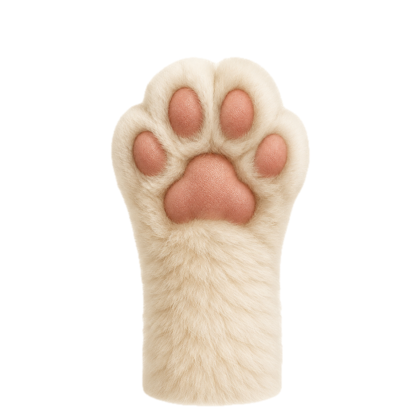
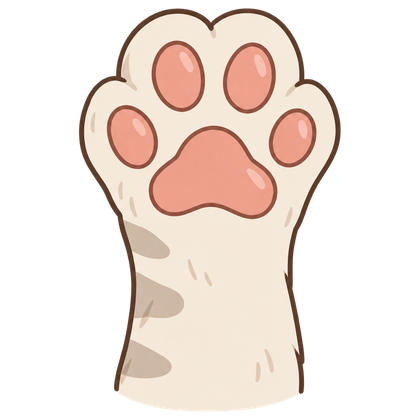
Illustrations: the cartoon set v2 in the app and on the site
Same files and sizes as before, square canvases with the new characters,
transparent; the avatars' light circle is part of the picture.

diff --git a/apps/web/src/components/ui/Illustration.tsx b/apps/web/src/components/ui/Illustration.tsx
@@ -7,7 +7,8 @@ import welcomePets from '@/assets/illustrations/welcome-pets.png'
 
 /**
  * The transparent illustrations shared with the mobile app
- * (docs/design/mobile-concept-v1/assets/transparent), resized for the web.
+ * (docs/design/cartoon-illustrations-v2, 20 October 2026), trimmed to a square
+ * canvas and resized for the web.
  *
  * - `pets-together` — the pair in a bed: first pet.
  * - `welcome-pets` — the standing pair: no checks yet, no pet to check, landing.
